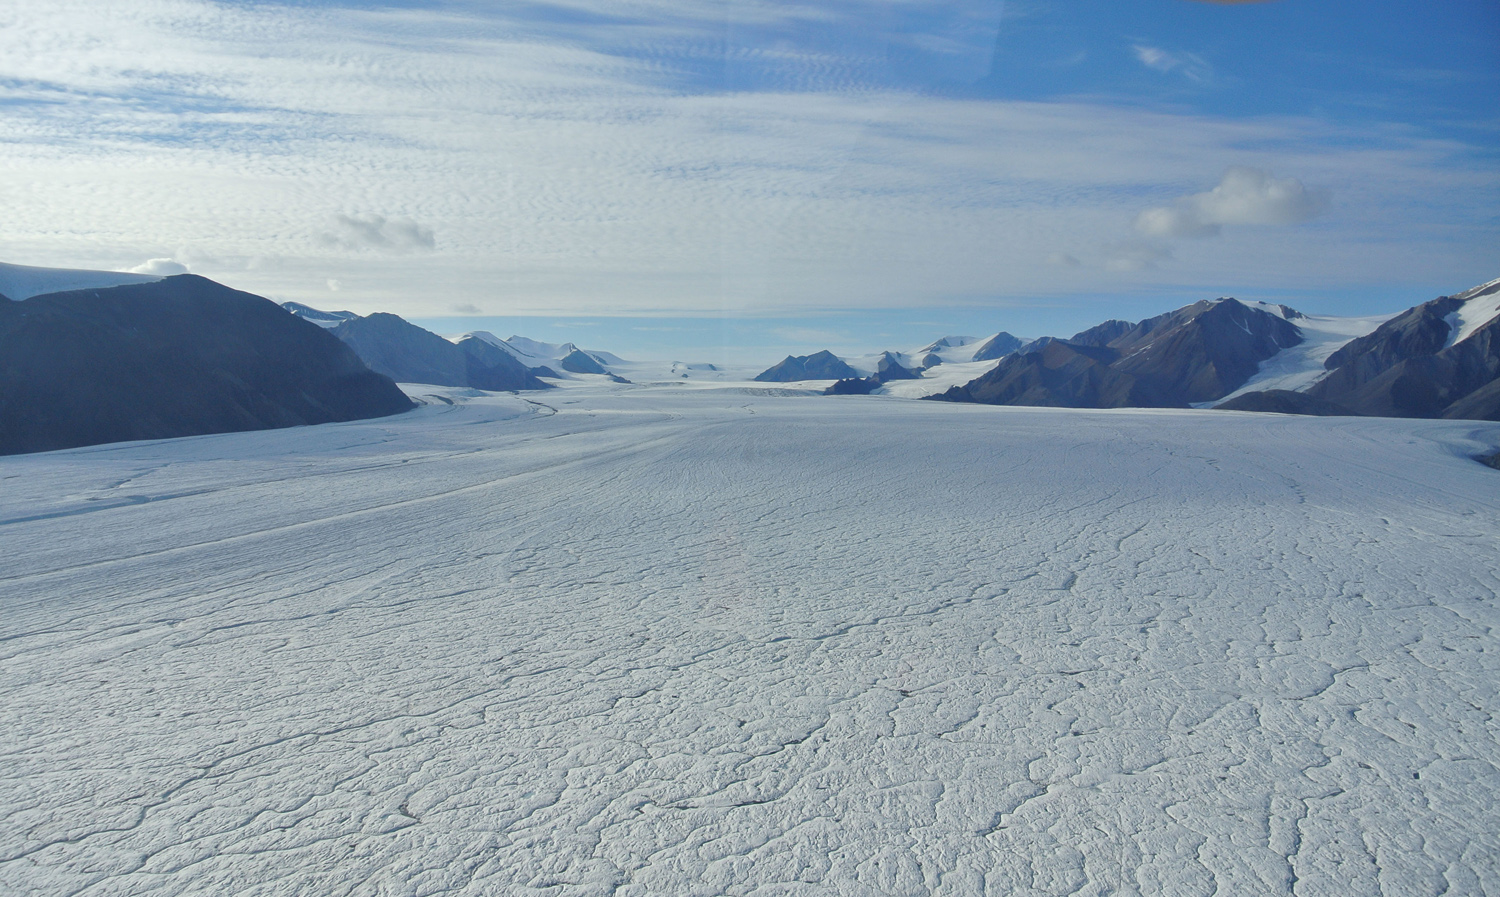
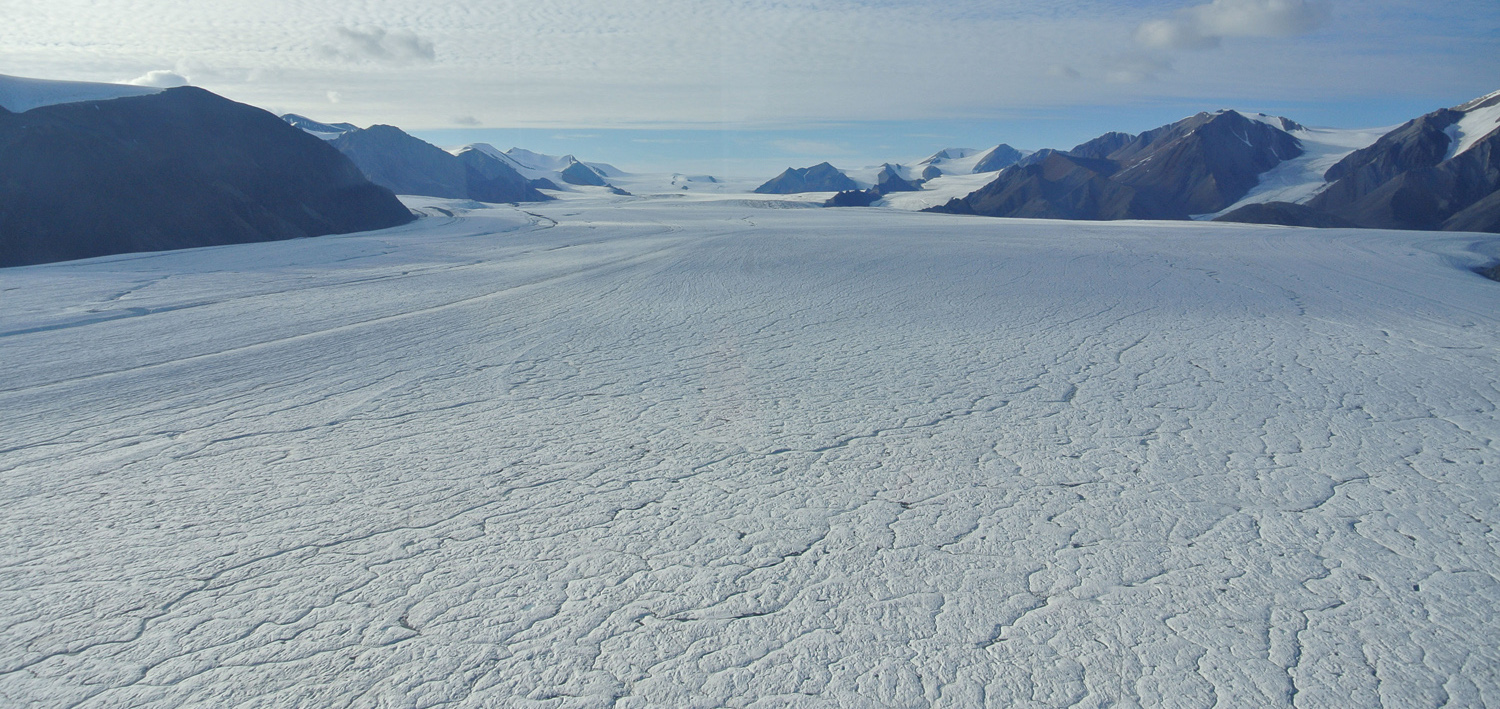
fixed the header

diff --git a/assets/css/main.css b/assets/css/main.css
@@ -1941,7 +1941,7 @@ input, select, textarea {
 			}
 
 				ul.icons li a:hover {
-					color: #ef8376;
+					color: #7696ef;
 				}
 
 /* Form */
@@ -1978,7 +1978,7 @@ input, select, textarea {
 		form select:focus,
 		form textarea:focus {
 			background: #fff;
-			border-color: #df7366;
+			border-color: #7696ef;
 		}
 
 	form input[type="text"],
@@ -2182,7 +2182,7 @@ input, select, textarea {
 
 	#header {
 		position: relative;
-		background-image: url("../../images/thompson.jpg");
+		background-image: url("../../images/thompsonbig.jpg");
 		background-size: cover;
 		background-position: center center;
 		background-attachment: fixed;
